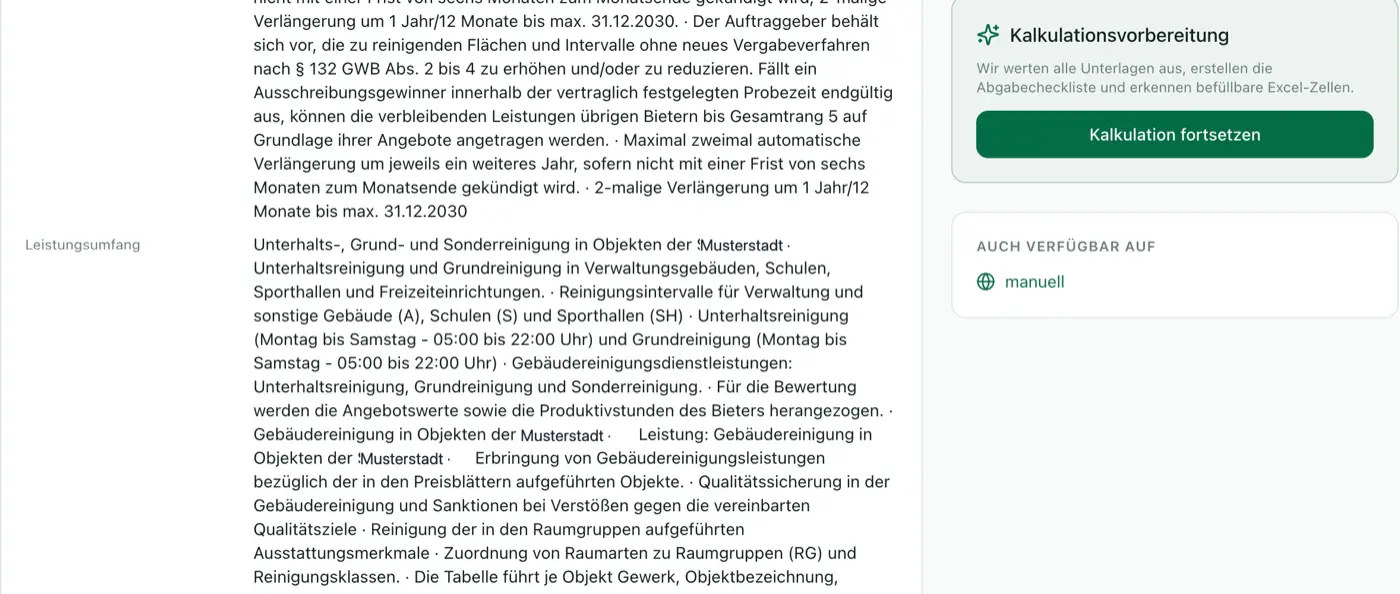
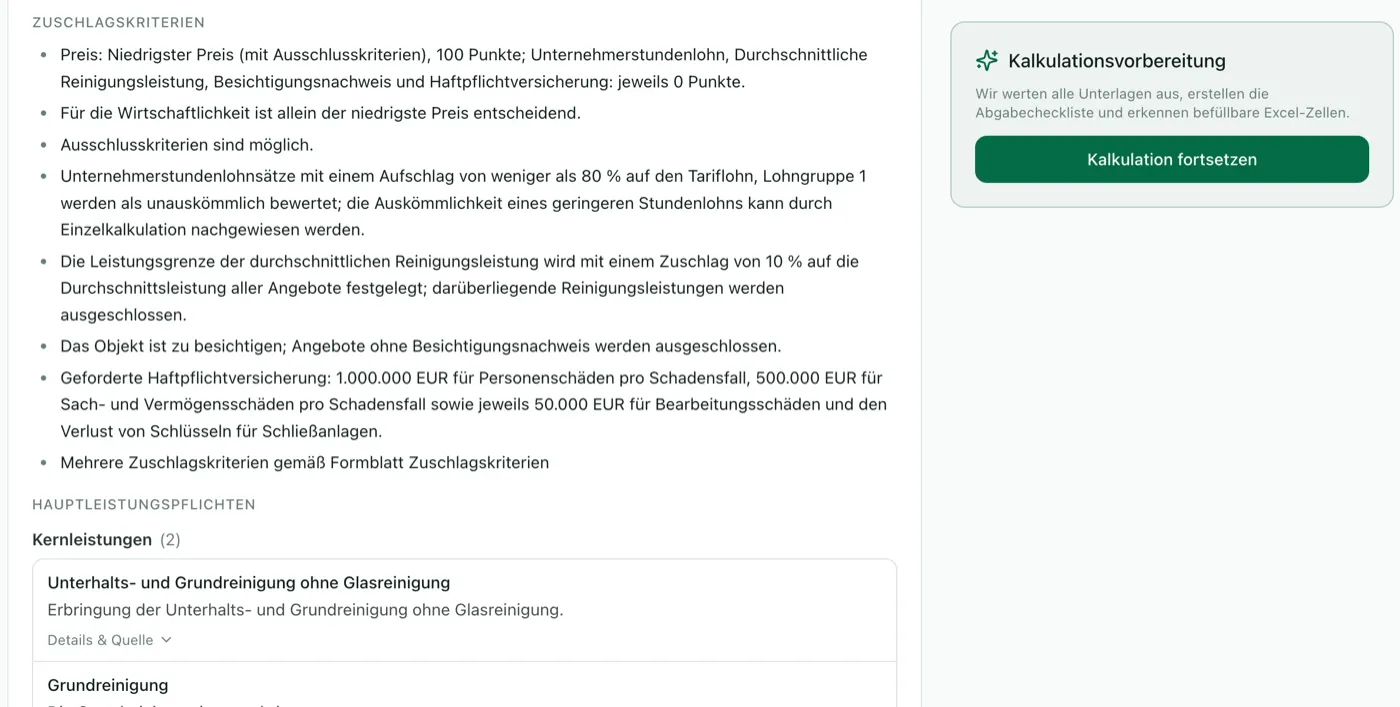
fix: besserer Zusammenfassungs-Screenshot bei Schritt 2
Von Jérôme nachgereicht: Zuschlagskriterien und Hauptleistungspflichten als
strukturierte Liste statt Fließtext, rechts "Kalkulation fortsetzen". Enthält keine
Objekt- oder Kundendaten, daher ohne Anonymisierung. 1400x707, 70 KB.

diff --git a/src/app/ausschreibung/landing.tsx b/src/app/ausschreibung/landing.tsx
@@ -121,10 +121,10 @@ function Ablauf() {
                 /* Auf dem Handy aus dem Textrahmen ausbrechen, sonst ist der Screenshot zu klein zum Erkennen */
                 <figure className="m-0 mt-4 -mx-6 sm:mx-0">
                   <div className="overflow-hidden sm:rounded-2xl" style={{ border: "1px solid var(--color-border)", borderLeftWidth: 0, borderRightWidth: 0 }}>
-                    <img src={BILDER.zusammenfassung} alt="MerKalku fasst die Vergabeunterlagen zusammen: Leistungsumfang, Laufzeit und Verlängerungsoptionen, daneben der Knopf zum Fortsetzen der Kalkulation" className="w-full h-auto block" loading="lazy" decoding="async" width={1400} height={594} />
+                    <img src={BILDER.zusammenfassung} alt="MerKalku fasst die Vergabeunterlagen zusammen: Zuschlagskriterien und Hauptleistungspflichten, daneben der Knopf zum Fortsetzen der Kalkulation" className="w-full h-auto block" loading="lazy" decoding="async" width={1400} height={707} />
                   </div>
                   <figcaption className="text-xs mt-2 px-6 sm:px-0" style={{ color: "var(--color-text-faint)" }}>
-                    Die Zusammenfassung in MerKalku: Leistungsumfang und Laufzeit auf einen Blick, rechts der Weg in die Kalkulation. Objektdaten im Beispiel ersetzt.
+                    Die Zusammenfassung in MerKalku: Zuschlagskriterien und Pflichten auf einen Blick, rechts der Weg in die Kalkulation.
                   </figcaption>
                 </figure>
               ) : null}

diff --git a/src/lib/bilder.ts b/src/lib/bilder.ts
@@ -3,8 +3,9 @@
 export const BILDER = {
   /** Station 1: Import-Übersicht. Vorhanden: Poster der Format-Animation. */
   import: "/hero-poster.webp",
-  /** Schritt 2: Zusammenfassung der Vergabeunterlagen mit dem Knopf "Kalkulation fortsetzen".
-      Das ist der Entscheidungs-Moment. Ortsnennungen durch Musterdaten ersetzt, 1400 px, WebP. */
+  /** Schritt 2: Zusammenfassung der Vergabeunterlagen (Zuschlagskriterien, Hauptleistungspflichten)
+      mit dem Knopf "Kalkulation fortsetzen". Das ist der Entscheidungs-Moment. 1400 px, WebP.
+      Enthält keine Objekt- oder Kundendaten. */
   zusammenfassung: "/zusammenfassung.webp",
   /** Abgabecheckliste mit Quellenangabe je Pflichtpunkt. Aktuell nicht eingebunden,
       passt inhaltlich zu Schritt 4 (Freigeben) und taugt als Anzeigenbild. */
